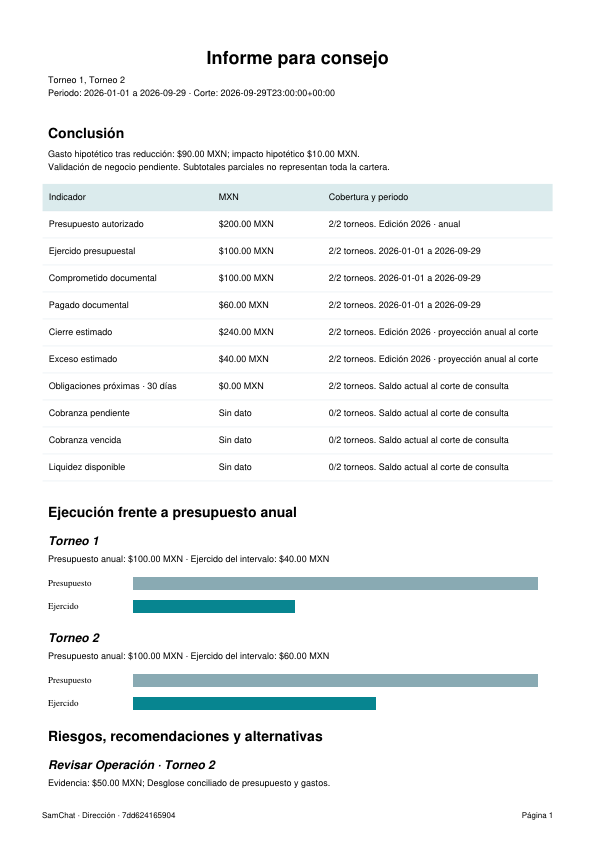
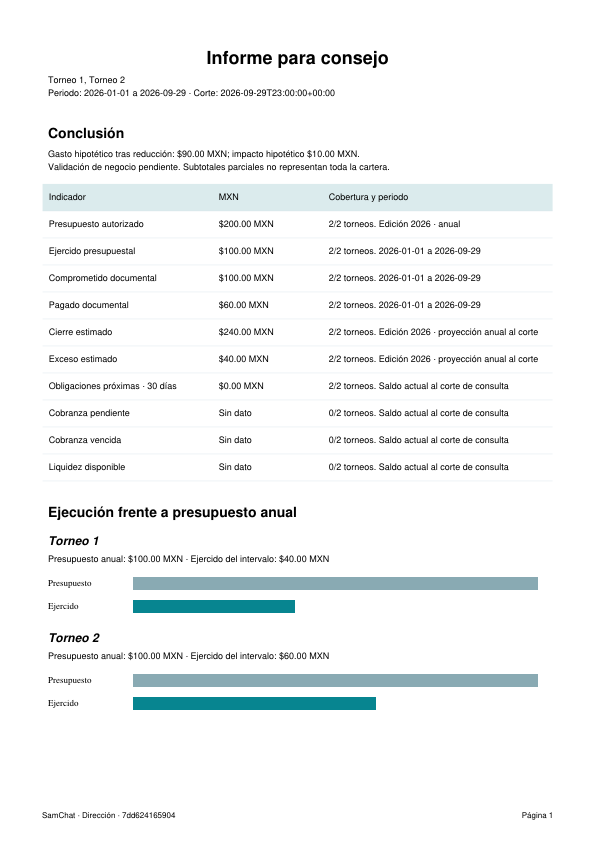
fix(direction): align PDF dependencies and keep report blocks together

Changed region(s): [[0.0906, 0.8646, 0.5436, 0.9572]]

diff --git a/src/samchat/executive/exporter.py b/src/samchat/executive/exporter.py
@@ -311,6 +311,7 @@ def generate_direction_report_pdf(report: dict[str, Any]) -> bytes:
     from reportlab.lib.pagesizes import A4
     from reportlab.lib.styles import getSampleStyleSheet
     from reportlab.platypus import (
+        KeepTogether,
         Paragraph,
         SimpleDocTemplate,
         Spacer,
@@ -323,6 +324,8 @@ def generate_direction_report_pdf(report: dict[str, Any]) -> bytes:
     styles = getSampleStyleSheet()
     styles["Normal"].fontSize = 9
     styles["Normal"].leading = 13
+    styles["Heading2"].keepWithNext = True
+    styles["Heading3"].keepWithNext = True
 
     def p(value, style="Normal"):
         return Paragraph(escape(str(value)).replace("\n", "<br/>"), styles[style])
@@ -403,16 +406,24 @@ def generate_direction_report_pdf(report: dict[str, Any]) -> bytes:
                 story.append(
                     p(f"Mes {point['month']:02d}: {format_money(point['value'])}")
                 )
-    story += [p("Riesgos, recomendaciones y alternativas", "Heading2")]
-    for item in report["recommendations"]:
-        story += [
-            p(item["title"], "Heading3"),
-            p("Evidencia: " + item["evidence"]),
-            p("Recomendación: " + item["recommendation"]),
-            p("Alternativa: " + item["alternative"]),
-            p("Riesgo: " + item["risk"]),
-            p("Siguiente paso: " + item["next_step"]),
-        ]
+    for index, item in enumerate(report["recommendations"]):
+        story.append(
+            KeepTogether(
+                (
+                    [p("Riesgos, recomendaciones y alternativas", "Heading2")]
+                    if index == 0
+                    else []
+                )
+                + [
+                    p(item["title"], "Heading3"),
+                    p("Evidencia: " + item["evidence"]),
+                    p("Recomendación: " + item["recommendation"]),
+                    p("Alternativa: " + item["alternative"]),
+                    p("Riesgo: " + item["risk"]),
+                    p("Siguiente paso: " + item["next_step"]),
+                ]
+            )
+        )
     if report.get("scenario"):
         s = report["scenario"]
         story += [
@@ -440,11 +451,15 @@ def generate_direction_report_pdf(report: dict[str, Any]) -> bytes:
         p("Definiciones y fuentes", "Heading2"),
     ]
     for metric in report["indicators"]:
-        story += [
-            p(metric["label"], "Heading3"),
-            p(metric["definition"]),
-            p("Fuente: " + metric["source"]),
-        ]
+        story.append(
+            KeepTogether(
+                [
+                    p(metric["label"], "Heading3"),
+                    p(metric["definition"]),
+                    p("Fuente: " + metric["source"]),
+                ]
+            )
+        )
     story.append(p("Identificador de cifras: " + report["snapshot_id"]))
     buffer = io.BytesIO()
 

diff --git a/docs/evidence/direction-432-433/README.md b/docs/evidence/direction-432-433/README.md
@@ -5,8 +5,11 @@
 - `regression-tests.txt`: 197 passing unit/HTTP tests covering Direction access and source contracts, budget service and canonical exporters.
 - `browser-tests.txt`: 2 passing Chromium scenarios for desktop/mobile context/filter navigation and signed scenario/download parity.
 - `report-page-1.png`, `report-page-2.png`, `report-page-3.png`: rendered PDF inspected for legibility, wrapped tables, business labels, graph scales, explicit gaps and isolated hypothetical values.
+- `focused-tests.txt`: 25 passing final analysis/export and canonical exporter tests.
 - New `tests/unit/test_direction_analysis_reports.py`: deterministic Decimal arithmetic, rounding parity, incomplete evidence, unauthorized scope, signed analysis tampering, no mutation, human legacy reports, Excel blanks/formula injection/cache and PDF numeric parity.
 
 Changed executable Python lines measured from coverage XML plus the base diff: 482/503 (95.8%), above the 85% gate. Additional complete-concept and legacy-presentation tests were subsequently added. CI remains authoritative for the complete baseline-gated unit/integration suite.
 
 Reproduce the focused suite with `PYTHONPATH=src python -m pytest tests/unit/test_direction* tests/unit/test_client_executive* tests/unit/test_budget_service.py tests/unit/test_executive_exporter.py tests/unit/gastos/test_direction_navigation_discovery.py tests/unit/gastos/test_executive_export_route_contract.py --cov=src --cov-report=xml --cov-fail-under=0` and Chromium with `PYTHONPATH=src python -m pytest tests/browser/test_direction_home_browser.py` (using the installed browser path if needed).
+
+The initial CI run exposed that the monolithic requirements profile omitted the PDF libraries present in runtime/test profiles. Both requirements entrypoints now declare ReportLab and PyMuPDF; PDF checks remain mandatory, with no skips. Final PDF pagination keeps recommendation and definition blocks together.
